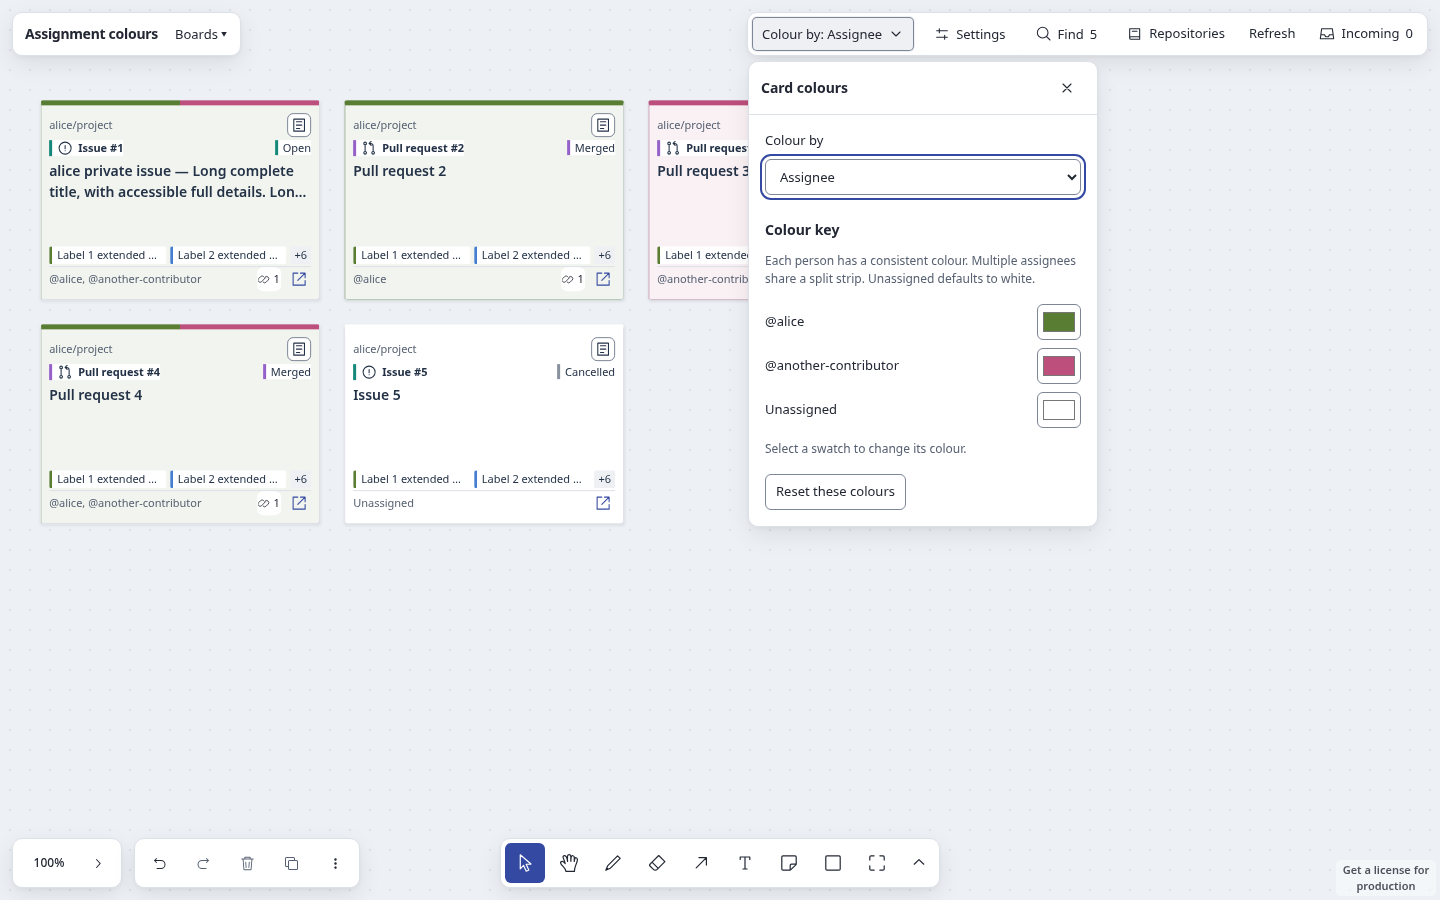
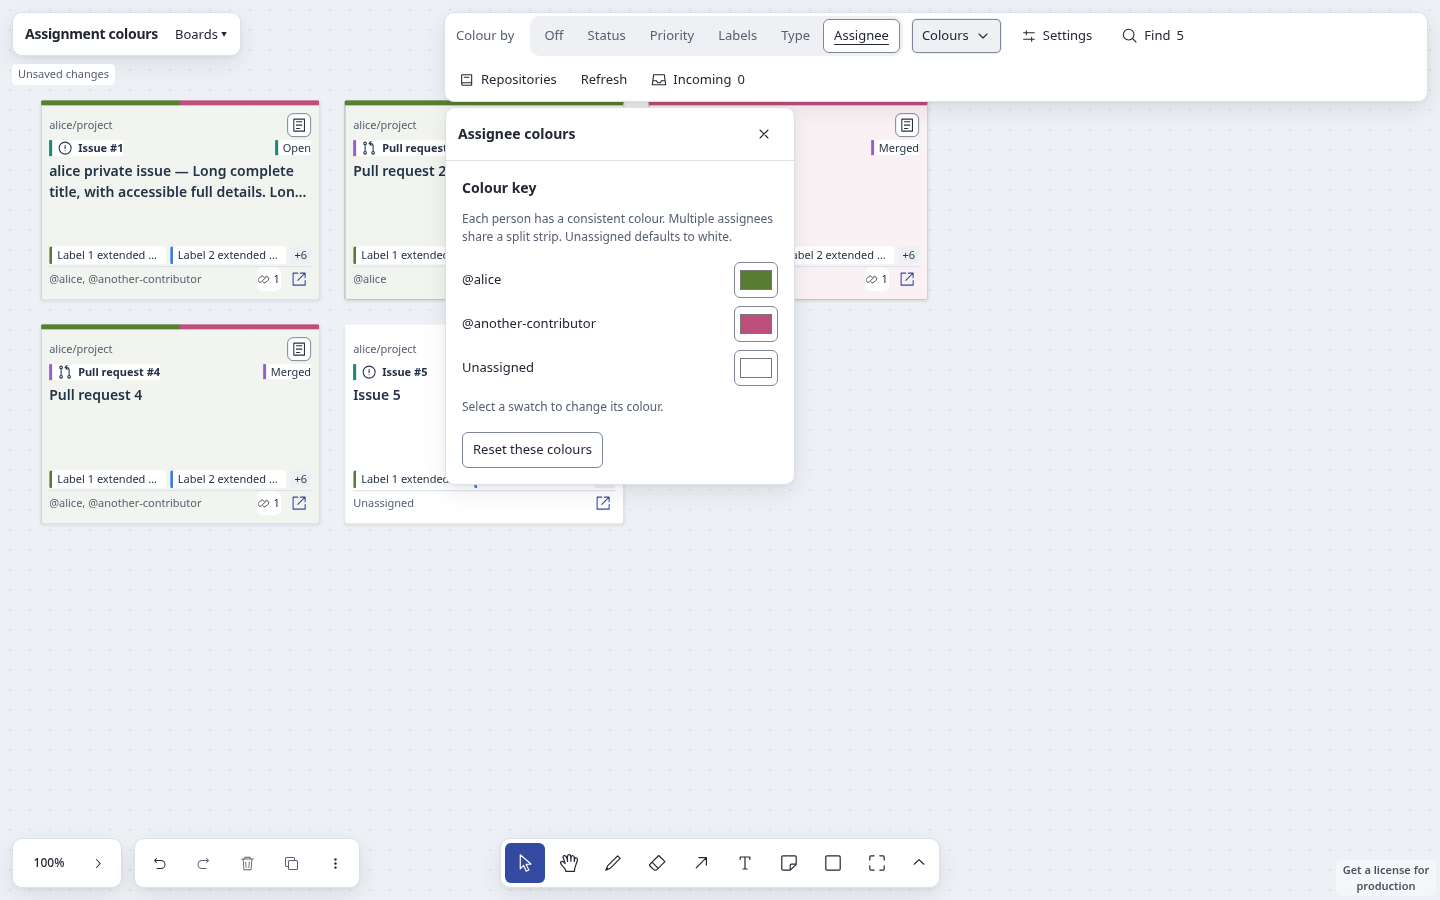
docs: record switcher verification and Claude design feedback

diff --git a/.scratch/assignment-colours/claude-ui-feedback.md b/.scratch/assignment-colours/claude-ui-feedback.md
@@ -1,0 +1,101 @@
+# Design critique: board colour controls (Colour by switcher and Colours palette)
+
+Reviewed on 2026-11-09 against the eight supplied screenshots, `src/client/workspace/cardColours.tsx`, `cardColours.css`, the shared rules in `chrome.css`, and extra captures from the isolated fixture preview on port 3118 (Off/Status/Priority/Labels/Type palettes, hover, keyboard focus via real Tab presses, 1100px, 960px, 320px and 390px at 100% text). Behaviour claims below are limited to what the seven browser tests cover or what I saw directly.
+
+## Verdict
+
+Ship it. There are no blockers. The one-click requirement is met well: six always-visible native radios styled as a segmented control, arrow keys move between them, a real focus ring shows on Tab, and the palette updates in place when the mode changes. The problems I found are small and all have small fixes. I would make items 1 to 3 below before merging because they take minutes, and treat the rest as follow-ups.
+
+## What works
+
+- Mode switching is one click and one keypress, with the selected segment distinguished by background, border and weight rather than colour alone.
+- The palette is a true legend for the current mode: its heading names the mode, the values listed are the ones on the board plus the standard ones, and the swatches are the editors. "Reset these colours" scoped to the current mode is the right scope.
+- Status help text explains the project-status fallback and the Cancelled mapping in one sentence. That is the right amount of text.
+- Off mode with the palette open explains itself instead of showing an empty key.
+- Accessibility basics are in place: fieldset and legend, native radios, `aria-expanded` and `aria-controls` on the trigger, a labelled region, a labelled close button, per-swatch accessible names, 44px targets at narrow widths, and a `role="status"` region for the storage warning. Measured text contrast of the unselected segments is 5.6:1 in light and 7.1:1 in dark, and the legend uses the same colour, so all pass AA at 13px.
+- The mobile menu keeps the switcher visible without a nested dropdown, and the palette becomes a bottom-anchored sheet at 320px with the Reset button reachable by scrolling.
+- RTL at 1000px keeps the panel inside the toolbar bounds and mirrors the switcher order.
+
+## Concrete usability problems
+
+Ordered by how much they matter to a user. Each has the smallest fix I would accept.
+
+### 1. Priority mode with no project selected gives a uniform board and a key with one entry, with no explanation
+
+With no project chosen in Settings every card gets the "No priority" value, so selecting Priority turns every card the same colour, and the key shows a single row, "No priority". There is no help sentence in Priority mode (the `help` string is `null` for that category), so the user has nothing that tells them to pick a project. Status mode has the equivalent sentence and reads fine.
+
+A second, related problem: the default colour for "No priority" comes from the hash fallback and lands on the same purple used for Merged (Status mode) and Pull request (Type mode). A board of cards with no priority looks identical to a board of merged pull requests. "Cancelled" and "Draft" already default to the neutral grey `#87929e`, which is the right treatment for "no value".
+
+Fix: add a help sentence for Priority, in the same register as the Status one, for example "Uses the project priority field chosen in Settings. Cards without one show as No priority." Add `'priority:no priority': '#87929e'` to `defaults` so absence reads as neutral.
+
+### 2. The switcher reflows the toolbar on every click
+
+The selected segment is set to weight 650, so its label gets wider. I measured the segment group at 373.7px to 376.6px depending on which mode is selected, and the Colours, Settings and Find buttons slide by 1 to 3px with each click. On the most common operation in the toolbar, the thing the user just clicked near moves under the pointer.
+
+Fix: reserve the bold width. Either drop the weight change (background plus border plus underline already mark the selection) or render a hidden bold copy of the label to size the segment, for example a `::after` with `content: attr(data-label)`, `font-weight: 650`, `height: 0`, `visibility: hidden`, `display: block`. Equal-width segments would also work but make "Off" oddly wide next to "Assignee".
+
+### 3. Between roughly 900px and 1000px the Colours trigger wraps onto a row of its own
+
+The toolbar's max width is `calc(100vw - min(40vw, 420px) - 36px)`, which is 540px at 960px wide. The legend, switcher and trigger together need about 555px, so the trigger alone drops to row two and the remaining buttons go to row three. The 960px capture and the supplied RTL screenshot at 1000px both show this three-row bar with an orphaned "Colours" line. At 1100px and above the bar is two tidy rows.
+
+Fix: below about 1000px, visually hide the "Colour by" legend (keep it in the accessibility tree; it is the fieldset's name) which frees about 80px, or let the trigger wrap together with the switcher as one unit. I would not reduce the segment padding to buy the space; the targets are the right size.
+
+### 4. "Colours" next to "Colour by" does not say what it opens
+
+Two adjacent controls begin with "Colour". The trigger is a plain text button with a chevron, equidistant from the switcher (9px) and from Settings (12px), so proximity does not tell the user it belongs to the switcher. Nothing on the closed bar says "this is where you see and edit what each colour means". The panel itself then has three labels for one idea: the h2 "Status colours", the legend "Colour key", and the help line "Select a swatch to change its colour."
+
+Fix: rename the trigger to "Colour key" (it fits in the same width at 1440px and still wraps cleanly in the mobile menu), and drop the inner "Colour key" legend, leaving the h2 as the panel's only title. Close the gap between switcher and trigger to 4px and leave 12px to Settings so the grouping reads from spacing. If the trigger name must stay "Colours", at least do the spacing change.
+
+### 5. Unassigned white is invisible in light theme and the loudest thing on the board in dark theme
+
+In the light screenshots the Issue 5 card (unassigned) has no visible strip at all; it looks like a card in Off mode, so the user cannot tell "nobody assigned" from "colouring is off" or "metadata unavailable". In the dark screenshots the same card has a bright white strip and the strongest contrast on the board, which draws the eye to the cards that have nobody on them. The two themes therefore say opposite things about the same state.
+
+This is the stated design ("Assignee already makes unassigned cards white"), so I am flagging it rather than calling it a defect. If the intent is "unassigned should stand out so it gets picked up", the dark theme delivers that and the light theme does not. If the intent is "unassigned is a non-value", the light theme delivers that and the dark theme does not.
+
+Fix, if you want consistency: default "Unassigned" to the same neutral grey as Cancelled and Draft (`#87929e`), which reads as "no value" in both themes and is still editable to white by anyone who wants it. If you want it to stand out, keep white but give the strip a 1px hairline in `var(--color-border-subtle)` so it is visible on light surfaces.
+
+### 6. The palette has six colours, so label and assignee keys repeat colours quickly
+
+The hash fallback maps unknown values into six hues. On the fixture's eight labels, four are green and three are pink, and the key lists them side by side with identical swatches. A user looking at a striped card cannot read back which label a green stripe is. The same will happen on teams of more than six people in Assignee mode.
+
+This is not a layout issue and the key still lets the user fix it by hand, so it is not blocking. Fix when convenient: widen the palette to ten or twelve distinguishable hues that pass the same light and dark checks as the current six. Keep the hash so colours stay stable across boards and sessions. Assigning sequentially by first appearance would avoid collisions but would shuffle colours whenever cards are added, which is worse.
+
+## Optional taste and polish
+
+- The selected segment carries four signals: white surface, border, bold, and an underline with offset. The underline makes it look like a link and is unusual in a segmented control. Background plus border is enough and is already colour-independent. Dropping the underline and the weight change would also solve item 2.
+- In dark theme the selected segment is darker than its track (surface `rgb(31,35,44)` on track `rgb(41,46,57)`), so it reads as pressed in, while in light theme it reads as raised. Both are recognisable conventions; just be aware the two themes invert the metaphor. Matching the toolbar surface is a reasonable reason to leave it.
+- "Labels colours" (plural noun used attributively) reads awkwardly against "Status colours" and "Type colours". Use a singular form for the heading, "Label colours", or phrase all headings as "Colours: Labels".
+- "Select a swatch to change its colour." sits below the list. At 320px with 200% text it is below the fold until the user scrolls past the swatches it describes. Merge it into the help paragraph above the list, or drop it; the swatches already look like inputs and have the native colour-picker cursor.
+- In the mobile menu the segments wrap with `flex: 1`, which produces an orphan row: at 320px and 390px at 100% text, five segments share row one and "Assignee" alone fills row two; at 200% text the rows are "Off Status Priority", "Labels Type", "Assignee". It works and the targets are 44px, but it looks unfinished. A grid with `repeat(auto-fit, minmax(<em value>, 1fr))` under the 900px breakpoint gives even rows at both text sizes.
+- The card-header chips (Open, Merged, Cancelled) always use Status colours regardless of mode. In Assignee mode a card shows an assignee strip and a status chip in different greens. The key only explains the strip. This is defensible (the chip is a persistent encoding, the strip is the chosen one), but if it confuses testers, one sentence in the Off-mode help could say so.
+- Colour preferences are stored per browser, keyed by board, while the toolbar they sit in otherwise edits shared board state and shows an "Unsaved changes" chip. Users may expect a teammate opening the same board to see the same colouring. A single line in the panel, "Saved in this browser for this board", would set that expectation. The storage-blocked notice already implies persistence without saying where.
+
+## Accessibility notes
+
+Verified: Tab reaches the checked radio and shows the 2px focus ring; ArrowRight moves selection and the ring follows (captured at 1440px, both in the preview). Contrast of unselected segment text and legend passes AA in both themes (numbers above). The panel is a labelled region, the close button has an accessible name that includes the panel name, swatches have "<value> colour" names, and the storage notice is a live region. At 320px targets are 44px and the page does not scroll horizontally per the existing test.
+
+Not verified here and worth a glance if not already covered elsewhere: screen-reader announcement of the panel heading changing when the mode changes while the panel is open (the h2 text updates in place; focus stays on the radio, which is correct, but a user of a screen reader has no cue that the key changed). An `aria-live="polite"` on the h2, or moving the mode name into the existing status region, would cover it cheaply.
+
+## Mobile notes
+
+- The bottom-anchored sheet is a good fit; short content (Off mode) sits low near the thumb, long content grows upward to the max height.
+- The "×" close icon is small inside its 44px target at 200% text; it is tappable but looks lighter than everything around it. Not a defect.
+- Opening the palette closes the menu and Escape returns focus to the Menu button (covered by tests). From the user's side this means "switch mode, then edit colours" is: Menu, tap mode, tap Colours, edit, close, Menu again if they want another mode. That is acceptable for an occasional task and keeps the common one-tap switch intact.
+
+## What I did not check
+
+- Any state with hundreds of labels or assignees; the fixture has eight labels and two people.
+- Pointer behaviour on the tldraw canvas while the panel is open, beyond what the outside-click close handler implies.
+- Windows high-contrast or forced-colours mode.
+
+## Follow-up verdict (same day)
+
+Rechecked only the three pre-merge items, against the updated screenshots (`priority-empty.png`, `compact-switcher.png`, `light-switcher.png`, `dark-switcher.png`) and the diff to `cardColours.tsx`, `cardColours.css` and `chrome.css`. The preview was stopped, so I did not re-measure live.
+
+1. **Priority with no project: fixed.** The help sentence reads "Uses the project priority field chosen in Settings. Cards without one show as No priority." and sits where the Status one does. `priority:no priority` now defaults to `#87929e`, and the dark screenshot shows a grey strip on every card and a grey swatch in the key, so an unprioritised board no longer looks like a merged one.
+
+2. **Toolbar reflow on mode click: fixed.** The checked state no longer sets `font-weight: 650`; it keeps the surface background, control border and underline, so the selection still does not rely on colour alone. The light and dark switcher screenshots show the Colours, Settings and Find buttons at the same x with Assignee selected as they were with Off selected, and the test asserts the trigger's x is unchanged across all six modes.
+
+3. **Orphaned Colours trigger between 900px and 1000px: fixed.** Between 901px and 1050px the "Colour by" legend is visually hidden with the standard clip pattern, so the fieldset keeps its accessible name (the test queries the group by that name) while the trigger stays on the switcher's row. The 960px screenshot shows two tidy rows: switcher plus Colours, then Settings, Find, Repositories, Refresh, Incoming. Above 1050px the legend returns, which matches the 1440px screenshots.
+
+Nothing new introduced that I can see in these captures. Unassigned white stays as designed; items 4 to 6 and the polish list remain optional. Ship.

diff --git a/.scratch/assignment-colours/interface-review.md b/.scratch/assignment-colours/interface-review.md
@@ -1,39 +1,41 @@
-# Colour menu and assignment colours
+# One-click colour switching and nearby palette editing
 
 ## Scope and coverage
 
-The board’s Colour by control, its colour-key editor, assignment colouring and the existing combined Status mode. React, native button/select/color inputs, tldraw and the existing Atlas + Contextual semantic tokens. Read `AGENTS.md`, `docs/CODING-CONVENTIONS.md` and the preceding `.scratch/card-colour-controls/interface-review.md`. This is an implementation self-review; unrelated application screens are outside scope.
+The board’s visible Colour by switcher, neighbouring Colours disclosure, current-mode palette and Assignee colouring. React, native radios/buttons/color inputs, tldraw and the existing Atlas + Contextual tokens. Read `AGENTS.md`, `docs/CODING-CONVENTIONS.md` and the preceding colour-control records. This is a scoped implementation self-review, with a separate Claude Fable UI/UX critique requested by the user.
 
-The user chose to retain one combined Status mode. It still uses the mapped project status when available and falls back to the GitHub state. Cancelled represents an issue closed as `not_planned`, using the existing metadata field ([GitHub’s issue API](https://docs.github.com/en/rest/issues/issues)). No separate GitHub-state mode or repository mode was added.
+Modes are Off, Status, Priority, Labels, Type and Assignee. The combined Status fallback is retained. Assignee makes unassigned cards white and splits the strip for multiple people. The redundant assignment mode is removed; a saved preference for that mode moves to Assignee. Palette editing follows the active switcher selection without adding steps to mode changes.
 
 | Domain | Evidence inspected | Result |
 | --- | --- | --- |
-| Accessibility | `CardColourControl`, native select and labelled colour inputs; keyboard open, Escape and desktop/mobile focus return; outside dismissal and direct card inspection; browser hit tests | Clear for inspected interactions; spoken screen-reader output not verified |
-| Layout | Desktop light/dark; 320px with 200% root text; long category labels; reset scrolls into view and receives pointer input; 1000px RTL placement | Clear |
-| Writing | Mode names, colour-key guidance, reset scope, empty-state and storage-failure recovery copy | Clear |
-| Typography | Existing rem scale, unitless line-height, wrapping assignee names and enlarged text | Clear |
-| Colors | Rendered light/dark panel, text, helper text, input borders and focus tokens; labelled white Unassigned swatch and cards | Clear |
-| UI polish | Existing panel chrome and shared panel state, anchored placement, explicit chevron, immediate updates, contained scrolling | Clear |
+| Accessibility | Native radio group and named inputs; one click per mode; arrow-key navigation, Tab to Colours, Escape and desktop/mobile focus return; direct card inspection; browser hit testing | Clear for inspected interactions; spoken screen-reader output not verified |
+| Layout | Desktop light/dark; 320px with 200% root text; long names; reset scrolls into view and receives pointer input; 960px switcher alignment and 1000px RTL placement | Clear for tested states; designer confirmed compact desktop fix |
+| Writing | Mode names, mode-specific palette heading, guidance, reset scope, empty-state and storage-failure recovery copy | Clear |
+| Typography | Existing rem scale, unitless line-height, wrapping names and enlarged text | Clear |
+| Colors | Rendered light/dark segments and palette; selected underline; labelled white Unassigned swatch and cards; browser contrast assertions | Clear |
+| UI polish | Existing shared chrome and panel state, explicit chevron, immediate switching, contained scrolling, hover-capable styling | Clear |
 
 ## Findings
 
-No actionable interface findings.
+No outstanding accessibility or interaction failures in the inspected states. [Claude Fable’s independent critique](claude-ui-feedback.md), performed as an experienced UI/UX designer with supplied screenshots and additional preview captures, found no blockers and recommended shipping.
+
+Implemented its first three recommendations: neutral grey and explanatory copy for missing priority; no font-weight change on selection, avoiding toolbar movement; and a visually hidden, still-accessible legend at compact desktop widths so Colours stays beside the switcher. Fable rechecked the final screenshots and source and confirmed all three fixes. Other suggestions remain optional follow-ups; unassigned remains white as requested.
 
 ## Verification
 
-Reviewed and validated implementation commit: `caaad2f`. The following documentation commit only records this evidence and the screenshots.
+- Added the one-click regression before restoring the switcher: it failed because the radios were absent.
+- `PATH=/tmp/gitbored-tools:$PATH pnpm test:e2e tests/e2e/card-colours.spec.ts tests/e2e/interface-continuity.spec.ts` — seven passed on Node 26.8.1 after the designer fixes (`/tmp/gitboard-switcher-designer-fixes.log`). Covers all six one-click modes with the palette closed, stable trigger position across selections, 960px same-row alignment, neutral missing priority, open palette following mode changes, arrow keys and Tab order, persistence, manual-colour restoration, split labels/assignees, scoped reset, white unassigned cards, storage failure and the project-status fallback.
+- The same run checks segment contrast and pointer reachability in both themes at 1440px and 320px/200% root text.
+- Isolated preview on 3118/3119: refreshed light/dark switcher and palette screenshots; narrow Menu and palette scrolling; reset-button reachability; Escape to the mobile Menu; 1000px RTL bounds. Preview data is invented.
+- Palette rendered colours remain unchanged: primary text 14.94:1 light / 13.77:1 dark; helper text 6.35:1 / 8.20:1; input boundary 3.67:1 / 4.44:1; focus token against panel 8.03:1 / 8.80:1. Category accents supplement text labels.
+- `PATH=/tmp/gitbored-tools:$PATH pnpm gate` — passed on Node 26.8.1 for implementation `92bba3b2951d0724855b0a9aa19b2b94efb59758`: lint, TypeScript, 14 workspace tests, 8 server tests and 112 browser tests. One existing unconfigured-deployment browser test skipped. Log: `/tmp/gitboard-switcher-final-gate.log`. The following evidence commit changes only this record, screenshots and the designer report.
 
-- The new keyboard/persistence test failed before implementation because the Colour by trigger did not exist.
-- Focused production browser run: `PATH=/tmp/gitbored-tools:$PATH pnpm test:e2e tests/e2e/card-colours.spec.ts` — three passed. Covers manual-colour restoration, split labels, mode persistence, overrides, assignment and assignee modes, white unassigned cards, multiple assignees, scoped reset and direct card inspection. Two initial test mistakes were corrected: a chosen project-status colour matched the manually saved blue, and a reload needed to wait for the board save.
-- The interface-continuity checks passed at 1440px and 320px/200% text in both themes, including rendered control text contrast and pointer reachability. The final gate reruns these against the integrated candidate.
-- An isolated fixture preview on ports 3118/3119 verified light/dark assignment cards, white Unassigned, long names, narrow reset-button reachability, Escape returning to the mobile Menu and RTL panel bounds at 1000px. Preview process stopped after inspection.
-- Measured rendered panel colours: primary text 14.94:1 light / 13.77:1 dark; helper text 6.35:1 / 8.20:1; input boundary 3.67:1 / 4.44:1; focus token against panel 8.03:1 / 8.80:1. Accent colours supplement text labels and are editable.
-- Final gate passed using Node 26.8.1: `PATH=/tmp/gitbored-tools:$PATH pnpm gate`. Lint/import-boundary checks, TypeScript, 14 workspace tests, 8 server tests and 111 browser tests passed; one existing unconfigured-deployment test was skipped. The integrated run also covers browser-storage failure messaging and Open fallback when the project status mapping is unset. Log: `/tmp/gitboard-colours-gate.log`.
+Screenshots: [light switcher](screenshots/light-switcher.png), [dark switcher](screenshots/dark-switcher.png), [light palette](screenshots/light.png), [dark palette](screenshots/dark.png), [enlarged mobile menu](screenshots/narrow-switcher.png), [mobile palette](screenshots/narrow-top.png), [mobile reset](screenshots/narrow-reset.png), [RTL placement](screenshots/rtl.png).
 
-Screenshots: [light](screenshots/light.png), [dark](screenshots/dark.png), [enlarged mobile top](screenshots/narrow-top.png), [enlarged mobile reset](screenshots/narrow-reset.png), [RTL placement](screenshots/rtl.png).
+Designer fixes: [compact desktop switcher](screenshots/compact-switcher.png), [missing priority](screenshots/priority-empty.png). All screenshots were refreshed after the final implementation changes.
 
-Not verified: spoken screen-reader output, native browser zoom, forced-colours appearance and live GitHub access. Browser regressions use controlled external GitHub HTTP and real application persistence. No animation was added.
+Not verified: spoken screen-reader output, native browser zoom, forced-colours appearance and live GitHub access. Browser regressions use controlled GitHub HTTP and real application persistence. No animation was added.
 
 ## Verdict
 
-Approve for the inspected flow and domains. Full integration verification passed. This is not a whole-application accessibility audit.
+Approve for the inspected interactions and domains, with independent designer approval and the final integration gate passing. This is not a whole-application accessibility audit.
